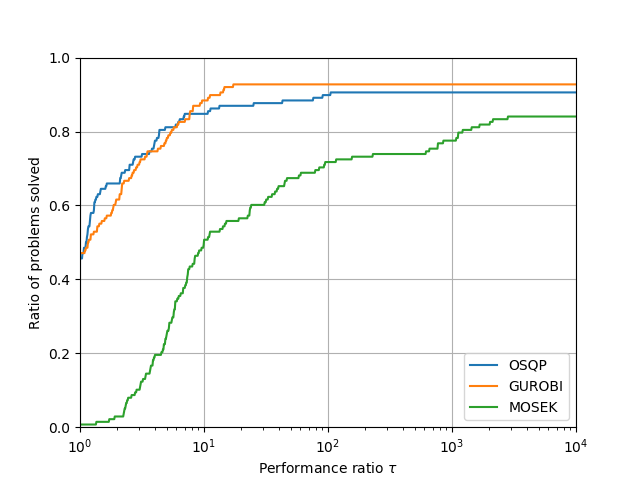
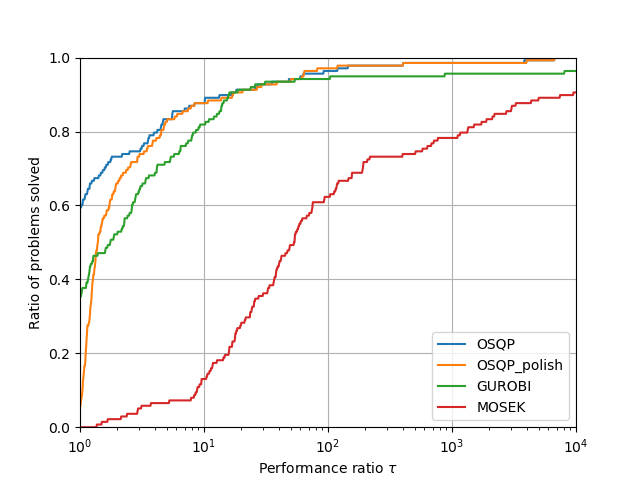
New tests

diff --git a/utils/benchmark.py b/utils/benchmark.py
@@ -2,8 +2,9 @@ import os
 import pandas as pd
 import numpy as np
 import solvers.statuses as statuses
+from solvers.solvers import time_limit
 
-MAX_TIMING = 1e8
+MAX_TIMING = time_limit
 
 
 def get_cumulative_data(solvers, problems):
@@ -125,7 +126,7 @@ def compute_shifted_geometric_means(solvers, problems_type):
     best_g_mean = np.min([g_mean[s] for s in solvers])
     for s in solvers:
         g_mean[s] /= best_g_mean
-                    
+
     # Store final pandas dataframe
     df_g_mean = pd.Series(g_mean)
     g_mean_file = os.path.join('.', 'results',
@@ -201,7 +202,9 @@ def compute_failure_rates(solvers, problems_type):
     f.close()
 
 
-def compute_polish_statistics(problems_type):
+def compute_polish_statistics(problems_type, high_accuracy=False):
+    name_high = "_high" if high_accuracy else ""
+    
     # Check if results file already exists
     results_file = os.path.join(".", "results", problems_type,
                                 "statistics.txt")
@@ -212,9 +215,9 @@ def compute_polish_statistics(problems_type):
 
     # Path where solver results are stored
     path_osqp = os.path.join('.', 'results', problems_type,
-                             'OSQP', 'results.csv')
+                             "OSQP" + name_high, 'results.csv')
     path_osqp_polish = os.path.join('.', 'results', problems_type,
-                                    'OSQP_polish', 'results.csv')
+                                    'OSQP_polish' + name_high, 'results.csv')
 
     # Load data frames
     df_osqp = pd.read_csv(path_osqp)

diff --git a/run_maros_meszaros_problems.py b/run_maros_meszaros_problems.py
@@ -38,13 +38,12 @@ print('parallel', parallel)
 # Add high accuracy solvers when accurazy
 if high_accuracy:
     solvers = [s.OSQP_high, s.OSQP_polish_high, s.GUROBI, s.MOSEK]
-    OUTPUT_FOLDER = 'maros_meszaros_problems'
+    OUTPUT_FOLDER = 'maros_meszaros_problems_high_accuracy'
     for key in s.settings:
         s.settings[key]['high_accuracy'] = True
-
 else:
     solvers = [s.OSQP, s.OSQP_polish, s.GUROBI, s.MOSEK]
-    OUTPUT_FOLDER = 'maros_meszaros_problems_high_accuracy'
+    OUTPUT_FOLDER = 'maros_meszaros_problems'
 
 # Shut up solvers
 if verbose:
@@ -57,7 +56,7 @@ maros_meszaros_runner = MarosMeszarosRunner(solvers,
                                             OUTPUT_FOLDER)
 
 # DEBUG only: Choose only 2 problems
-maros_meszaros_runner.problems = ["STADAT1", "BOYD1"]
+# maros_meszaros_runner.problems = ["STADAT1", "BOYD1"]
 
 maros_meszaros_runner.solve(parallel=parallel, cores=12)
 statistics_file = os.path.join(".", "results", OUTPUT_FOLDER,
@@ -74,8 +73,7 @@ compute_performance_profiles(solvers, OUTPUT_FOLDER)
 compute_shifted_geometric_means(solvers, OUTPUT_FOLDER)
 
 # Compute polish statistics
-compute_polish_statistics(OUTPUT_FOLDER)
+compute_polish_statistics(OUTPUT_FOLDER, high_accuracy=high_accuracy)
 
 # Plot performance profiles
-plot_performance_profiles(OUTPUT_FOLDER,
-                          ["OSQP", "GUROBI",  "MOSEK"])
+plot_performance_profiles(OUTPUT_FOLDER, solvers)

diff --git a/solvers/solvers.py b/solvers/solvers.py
@@ -26,7 +26,7 @@ SOLVER_MAP = {OSQP: OSQPSolver,
               ECOS: ECOSSolver,
               qpOASES: qpOASESSolver}
 
-time_limit = 10.  # Seconds
+time_limit = 1000.  # Seconds
 
 # Solver settings
 settings = {
